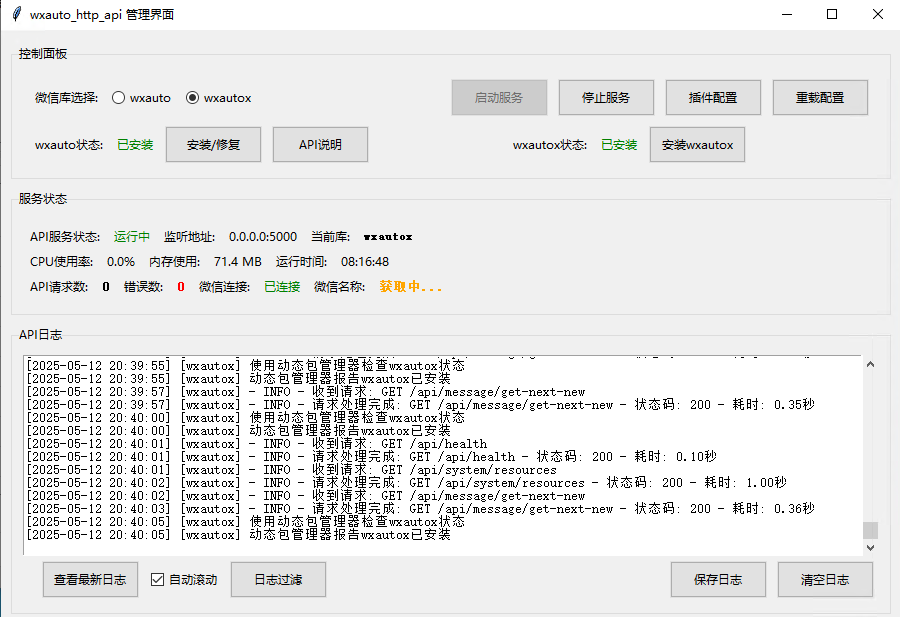
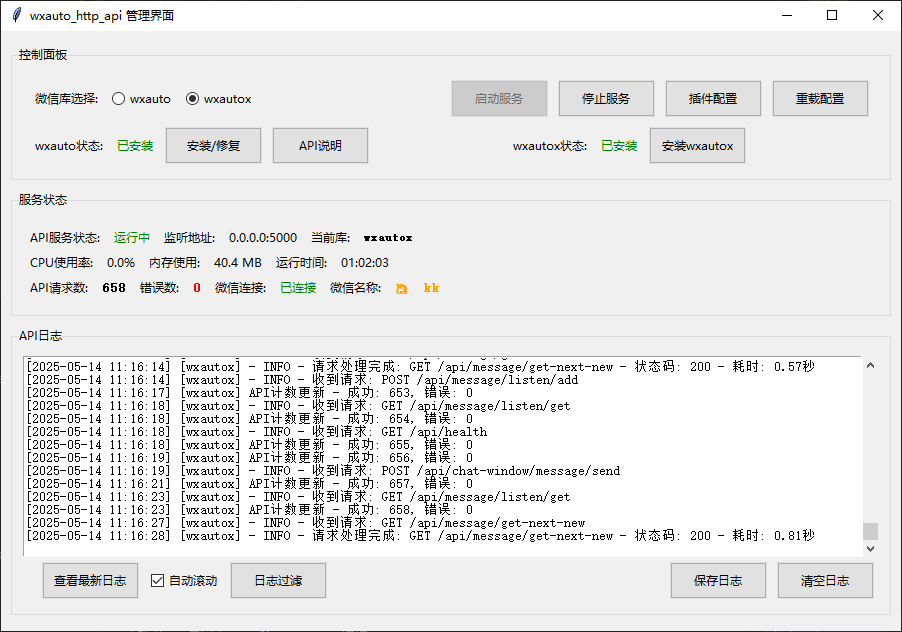
修改日志不显示API计数更新

diff --git a/app/app_ui.py b/app/app_ui.py
@@ -765,10 +765,6 @@ class WxAutoHttpUI:
                     self.request_count.config(text=str(API_COUNTER.success_count))
                     self.error_count.config(text=str(API_COUNTER.error_count))
 
-                    # 如果计数发生变化，添加日志
-                    if old_success != API_COUNTER.success_count or old_error != API_COUNTER.error_count:
-                        self.add_log(f"API计数更新 - 成功: {API_COUNTER.success_count}, 错误: {API_COUNTER.error_count}")
-
                     # 应用过滤器
                     if not self.should_filter_log(msg):
                         # 添加统一格式的时间戳，但不再添加库信息（因为日志中已经包含）
